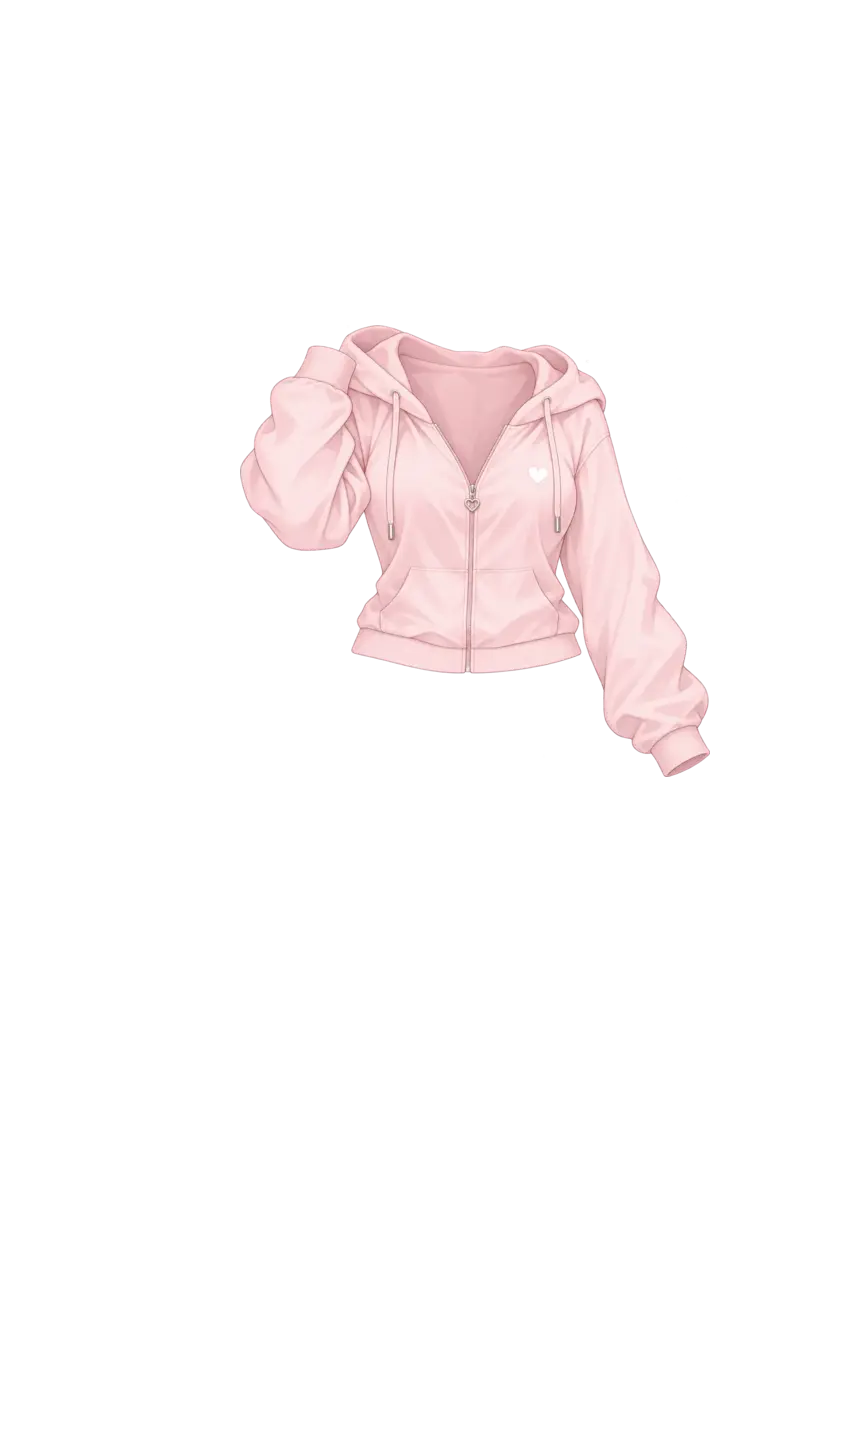
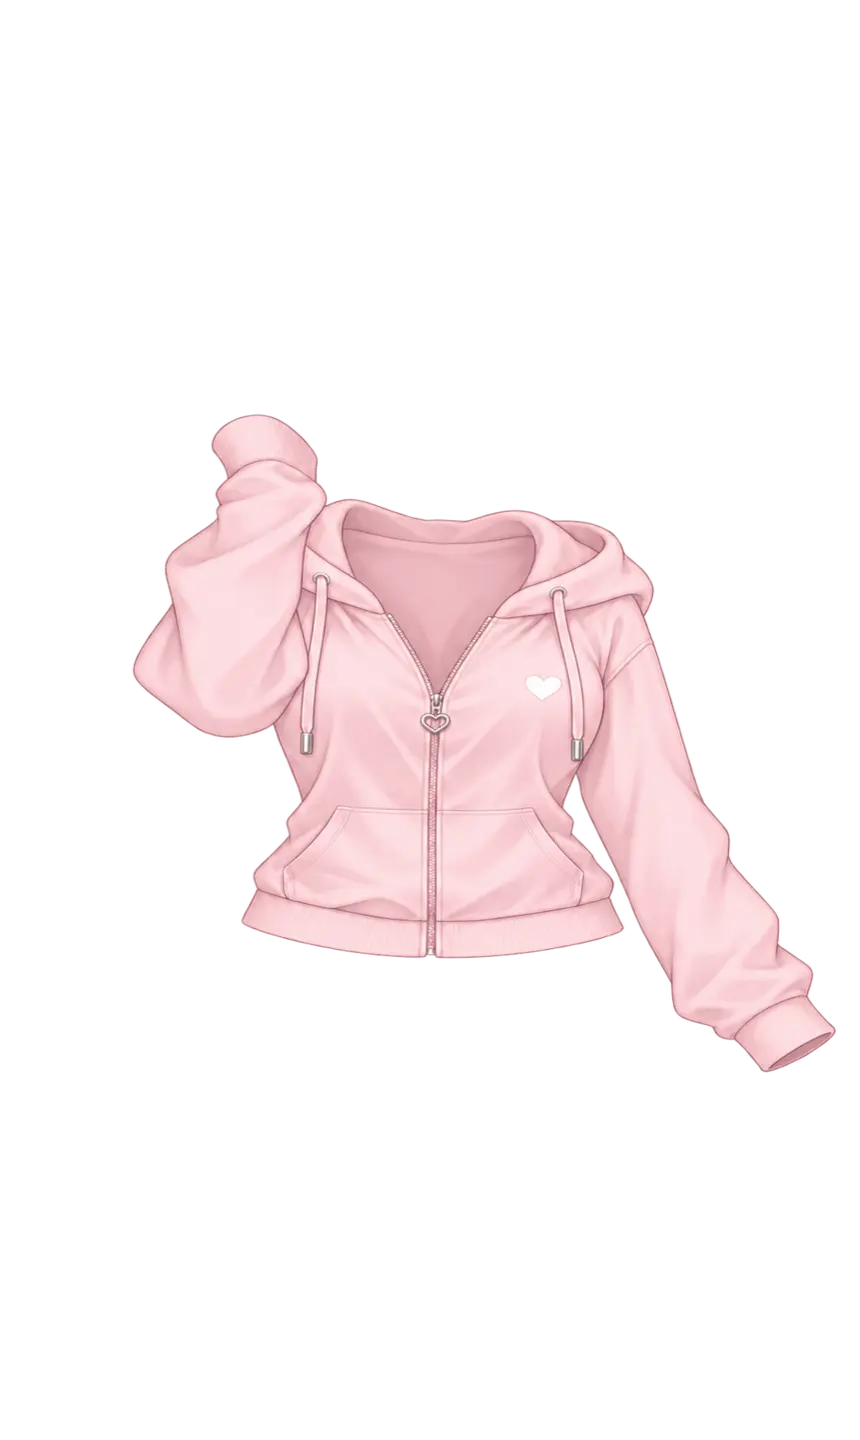
Fix wardrobe defaults and align single-item outfits

Changed region(s): [[0.1512, 0.2188, 0.9674, 0.75]]

diff --git a/assets/wardrobe-v110.js b/assets/wardrobe-v110.js
@@ -1,5 +1,8 @@
 (()=>{
-  const KEY='englishQuestWardrobeSavedV111';
+  const fixedLayerStyle=document.createElement('style');
+  fixedLayerStyle.textContent='#wardrobe .v110WearLayer{position:absolute!important;inset:0!important;width:100%!important;height:100%!important;display:block!important;object-fit:fill!important;pointer-events:none!important}#wardrobe .v110WearLayer[hidden]{display:none!important}';
+  document.head.appendChild(fixedLayerStyle);
+  const KEY='englishQuestWardrobeSavedV112';
   const clone=o=>JSON.parse(JSON.stringify(o));
   const defaults={mode:'suit',suit:'daily-pink',previewSuit:'daily-pink',top:'rose',bottom:'pinkSkirt',shoes:'maryPink',bag:'heart',accessory:'bow',hair:'softLong',hairColor:'#9a705f',makeup:{brow:'soft',iris:'brown',lash:'long',shadow:'peach',blush:'rose',lip:'berry'},pet:'cinnamon'};
   let saved=clone(defaults),draft=clone(defaults),active='suit',suitGroup='daily',hairPane='style',makeTab='brow';
@@ -45,7 +48,7 @@
     accessory:{bow:'',pearl:'accessory-pearl.webp',beret:'accessory-beret.webp'},
     pet:{cinnamon:''}
   };
-  const layerUrl=(kind,id)=>{const file=layerAssets[kind]?.[id];return file?`${layerRoot}${file}?v=20260919-1`:''};
+  const layerUrl=(kind,id)=>{const file=layerAssets[kind]?.[id];return file?`${layerRoot}${file}?v=20260919-2`:''};
   const layerThumbUrl=(kind,id)=>{const file=layerAssets[kind]?.[id];return file?`${layerThumbRoot}${file}?v=20260918-1`:''};
   Object.keys(layerAssets).forEach(kind=>{
     if(lists[kind])lists[kind]=lists[kind].filter(x=>Object.prototype.hasOwnProperty.call(layerAssets[kind],x[0]));
@@ -106,14 +109,14 @@
   const render=()=>{const sec=document.getElementById('wardrobe');if(!sec)return;warmWardrobe();sec.innerHTML=active==='hair'?hairEditor():active==='makeup'?makeupEditor():standard()};
   renderWard=render;
   const goBeforeV110=go;
-  go=function(id){if(id==='wardrobe'){draft=clone(saved);active='suit';const found=Object.entries(suits).find(([,v])=>v.items.some(x=>x[0]===draft.suit));suitGroup=found?found[0]:'daily'}goBeforeV110(id)};
+  go=function(id){if(id==='wardrobe'){draft=clone(saved);draft.suit='daily-pink';draft.previewSuit='daily-pink';active='suit';suitGroup='daily'}goBeforeV110(id)};
   document.addEventListener('click',e=>{
     const q=s=>e.target.closest(s);
     if(q('[data-v110-back]')){go('home');return}
     if(q('[data-v110-editorback]')){active='suit';render();return}
     if(q('[data-v110-save]')){persist();return}
     if(q('[data-v110-return-suits]')){active='suit';draft.mode='suit';draft.previewSuit=draft.suit;render();return}
-    let b=q('[data-v110-tab]');if(b){const previous=active;active=b.dataset.v110Tab;if(active==='suit'){draft.mode='suit';draft.previewSuit=draft.suit}else{draft.mode='piece'}if(active==='hair'||active==='makeup'||previous==='suit'||active==='suit'||!document.querySelector('#wardrobe .v110Stage')){render()}else{document.querySelectorAll('[data-v110-tab]').forEach(x=>x.classList.toggle('on',x.dataset.v110Tab===active));updatePanel()}return}
+    let b=q('[data-v110-tab]');if(b){const previous=active;active=b.dataset.v110Tab;if(active==='suit'){draft.mode='suit';draft.suit='daily-pink';draft.previewSuit='daily-pink';suitGroup='daily'}else{draft.mode='piece'}if(active==='hair'||active==='makeup'||previous==='suit'||active==='suit'||!document.querySelector('#wardrobe .v110Stage')){render()}else{document.querySelectorAll('[data-v110-tab]').forEach(x=>x.classList.toggle('on',x.dataset.v110Tab===active));updatePanel()}return}
     b=q('[data-v110-suitgroup]');if(b){suitGroup=b.dataset.v110Suitgroup;updatePanel();return}
     b=q('[data-v110-suit]');if(b){draft.suit=b.dataset.v110Suit;draft.previewSuit=draft.suit;draft.mode='suit';markSelected('[data-v110-suit]',draft.suit,'v110Suit');showPreview(draft.suit);return}
     b=q('[data-v110-item]');if(b){const kind=b.dataset.v110Item;draft[kind]=b.dataset.v110Value;draft.mode='piece';markSelected('[data-v110-item]',b.dataset.v110Value,'v110Value');updateLayer(kind,draft[kind]);return}
